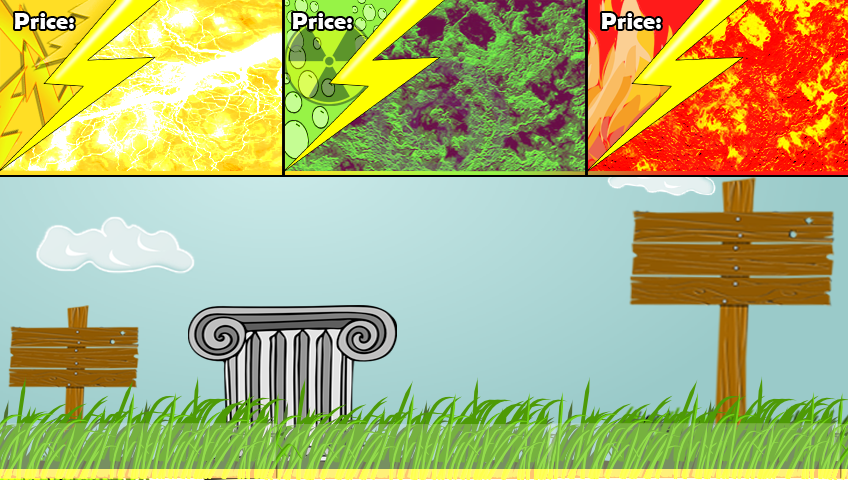
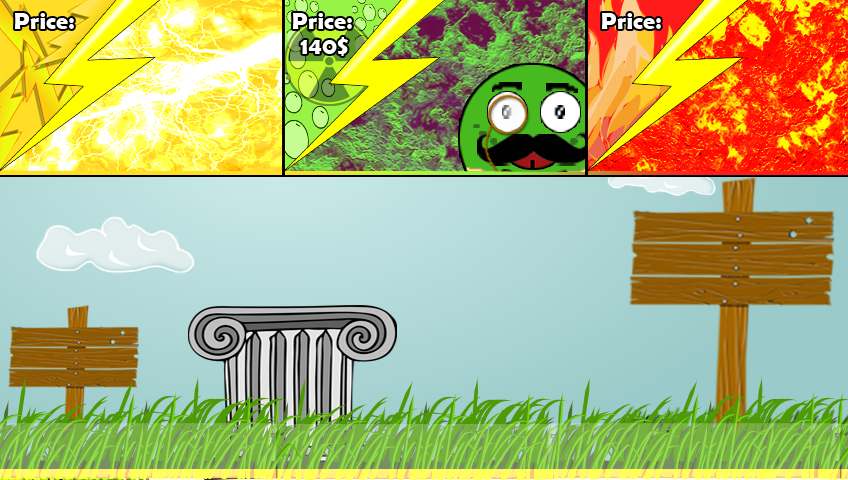
Shop-Screen - Green skin

Changed region(s): [[0.5212, 0.125, 0.7052, 0.375], [0.3373, 0.0625, 0.4292, 0.125]]

diff --git a/core/src/com/aau/auris/game/Asset/AssetLoader.java b/core/src/com/aau/auris/game/Asset/AssetLoader.java
@@ -19,9 +19,11 @@ public class AssetLoader
 	// Textures
 	public static Texture spritesheet;
 	public static Texture defaultBall;
+	public static Texture greenBall;
 	public static Texture menu_background;
 	public static TextureRegion[][] tmp;
-	public static TextureRegion[][] tmp2;
+	public static TextureRegion[][] tmpDefault;
+	public static TextureRegion[][] tmpGreen;
 	public static TextureAtlas menu_buttons;
 	public static TextureAtlas levelButtons;
 	public static Texture menu_background_blank;
@@ -34,7 +36,7 @@ public class AssetLoader
 	public static Animation parachuteBallAnimation2;
 	public static Animation parachuteBallAnimation3;
 	public static Animation ballDefault_animation;
-	public static Animation ballskin2_animation;
+	public static Animation ballskinGreen_animation;
 	public static Animation ballskin3_animation;
 	public static Animation ballskin4_animation;
 
@@ -56,15 +58,16 @@ public class AssetLoader
 	public static void load()
 	{
 		// Textures
-		defaultBall=new Texture(Gdx.files.internal("SpriteSheetv2.png"));
+		defaultBall=new Texture(Gdx.files.internal("boredskins.png"));
 		spritesheet = new Texture(Gdx.files.internal("spriteFly2.png"));
+		greenBall=new Texture(Gdx.files.internal("greenBored.png"));
 		menu_background = new Texture(Gdx.files.internal("menu_background.png"));
 		menu_background_blank = new Texture(Gdx.files.internal("backBlank2.png"));
 		menu_background_blank2 = new Texture(Gdx.files.internal("backLevels.png"));
 		tmp = TextureRegion.split(spritesheet, spritesheet.getWidth() / FLY_COLS, spritesheet.getHeight() / FLY_ROWS);
-		tmp2 = TextureRegion.split(defaultBall, defaultBall.getWidth() / BALL_COLS, defaultBall.getHeight() / BALL_ROWS);
+		tmpDefault = TextureRegion.split(defaultBall, defaultBall.getWidth() / FLY_COLS, defaultBall.getHeight() / FLY_ROWS);
+		tmpGreen = TextureRegion.split(greenBall, greenBall.getWidth() / FLY_COLS, greenBall.getHeight() / FLY_ROWS);
 		menu_buttons = new TextureAtlas(Gdx.files.internal("menuButtons.atlas"));
-
 		levelButtons=new TextureAtlas(Gdx.files.internal("levelButtons.atlas"));
 		background_Credits=new Texture(Gdx.files.internal("backCredits.png"));
 		background_Shop= new Texture(Gdx.files.internal("backShop.png"));
@@ -75,17 +78,18 @@ public class AssetLoader
 		TextureRegion[] parachuteFrames1 = new TextureRegion[FLY_COLS];
 		TextureRegion[] parachuteFrames2 = new TextureRegion[FLY_COLS];
 		TextureRegion[] parachuteFrames3 = new TextureRegion[FLY_COLS];
-		TextureRegion[] ballBoredFrames = new TextureRegion[BALL_COLS];
+		TextureRegion[] ballBoredFrames = new TextureRegion[FLY_COLS];
+		TextureRegion[] greenballBoredFrames = new TextureRegion[FLY_COLS];
+		
 		for (int i = 0; i < FLY_COLS; i++)
 		{
 			parachuteFrames1[i] = tmp[0][i];
 			parachuteFrames2[i] = tmp[1][i];
 			parachuteFrames3[i] = tmp[2][i];
+			ballBoredFrames[i]=tmpDefault[0][i];
+			greenballBoredFrames[i]= tmpGreen[0][i];
 		}
-		for (int i = 0; i < BALL_COLS; i++)
-		{
-			ballBoredFrames[i]=tmp2[1][i];
-		}
+		
 		parachuteBallAnimation1 = new Animation(0.08f, parachuteFrames1);
 		parachuteBallAnimation1.setPlayMode(Animation.PlayMode.LOOP_PINGPONG);
 		parachuteBallAnimation2 = new Animation(0.08f, parachuteFrames2);
@@ -94,8 +98,8 @@ public class AssetLoader
 		parachuteBallAnimation3.setPlayMode(Animation.PlayMode.LOOP_PINGPONG);
 		ballDefault_animation = new Animation(0.08f, ballBoredFrames);
 		ballDefault_animation.setPlayMode(Animation.PlayMode.LOOP_PINGPONG);
-		ballskin2_animation = new Animation(0.08f, parachuteFrames2);
-		ballskin2_animation.setPlayMode(Animation.PlayMode.LOOP_PINGPONG);
+		ballskinGreen_animation = new Animation(0.08f, greenballBoredFrames);
+		ballskinGreen_animation.setPlayMode(Animation.PlayMode.LOOP_PINGPONG);
 		ballskin3_animation = new Animation(0.08f, parachuteFrames3);
 		ballskin3_animation.setPlayMode(Animation.PlayMode.LOOP_PINGPONG);
 		ballskin4_animation = new Animation(0.08f, parachuteFrames3);

diff --git a/core/src/com/aau/auris/game/items/BallSkin.java b/core/src/com/aau/auris/game/items/BallSkin.java
@@ -16,13 +16,13 @@ public class BallSkin implements Asset, Unlockable
 	public static final transient int BALL_SKIN_3 = 2;
 	public static final transient int BALL_SKIN_4 = 3;
 	private static final transient int BALL_SKIN_1_COST = 0;
-	private static final transient int BALL_SKIN_2_COST = 100;
+	private static final transient int BALL_SKIN_2_COST = 140;
 	private static final transient int BALL_SKIN_3_COST = 100;
 	private static final transient int BALL_SKIN_4_COST = 100;
 
 	// Asset
 	private transient Animation ballSkinAnimation_1;
-	private transient Animation ballSkinAnimation_2;
+	private transient Animation greenBallSkinAnimation;
 	private transient Animation ballSkinAnimation_3;
 	private transient Animation ballSkinAnimation_4;
 
@@ -46,7 +46,7 @@ public class BallSkin implements Asset, Unlockable
 	public void loadAsset()
 	{
 		ballSkinAnimation_1 = AssetLoader.ballDefault_animation;
-		ballSkinAnimation_2 = AssetLoader.ballskin2_animation;
+		greenBallSkinAnimation = AssetLoader.ballskinGreen_animation;
 		ballSkinAnimation_3 = AssetLoader.ballskin3_animation;
 		ballSkinAnimation_4 = AssetLoader.ballskin4_animation;
 
@@ -70,7 +70,7 @@ public class BallSkin implements Asset, Unlockable
 	public Animation getSkin()
 	{
 		if (id == BALL_SKIN_1) { return ballSkinAnimation_1; }
-		if (id == BALL_SKIN_2) { return ballSkinAnimation_2; }
+		if (id == BALL_SKIN_2) { return greenBallSkinAnimation; }
 		if (id == BALL_SKIN_3) { return ballSkinAnimation_3; }
 		if (id == BALL_SKIN_4) { return ballSkinAnimation_4; }
 		return ballSkinAnimation_1;
